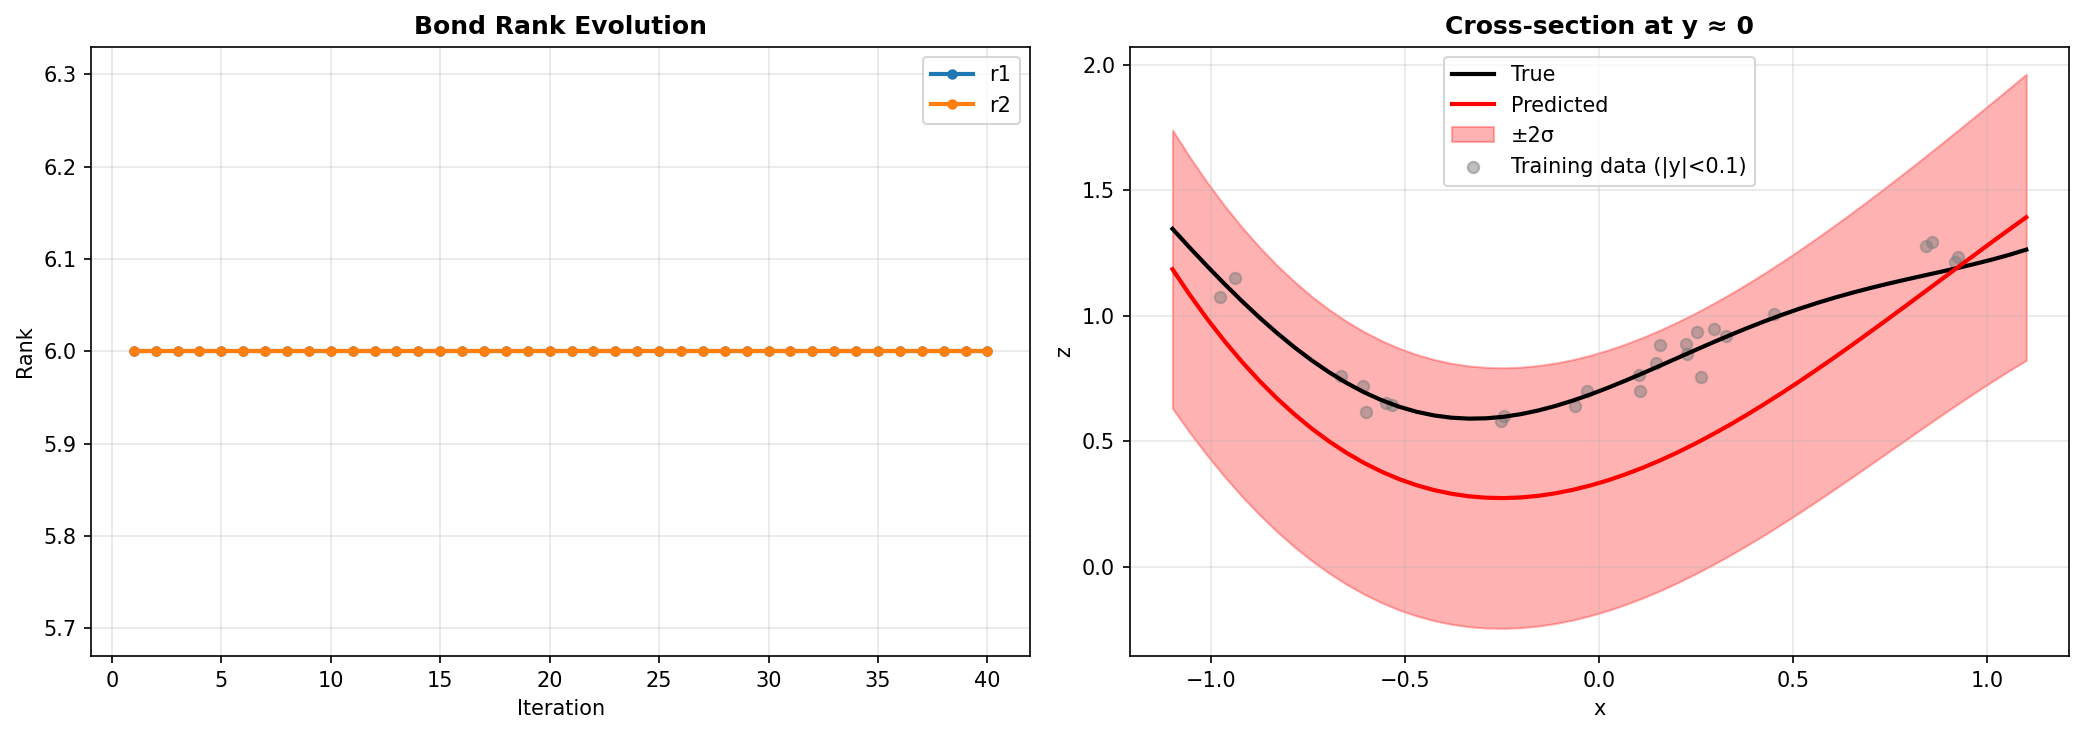
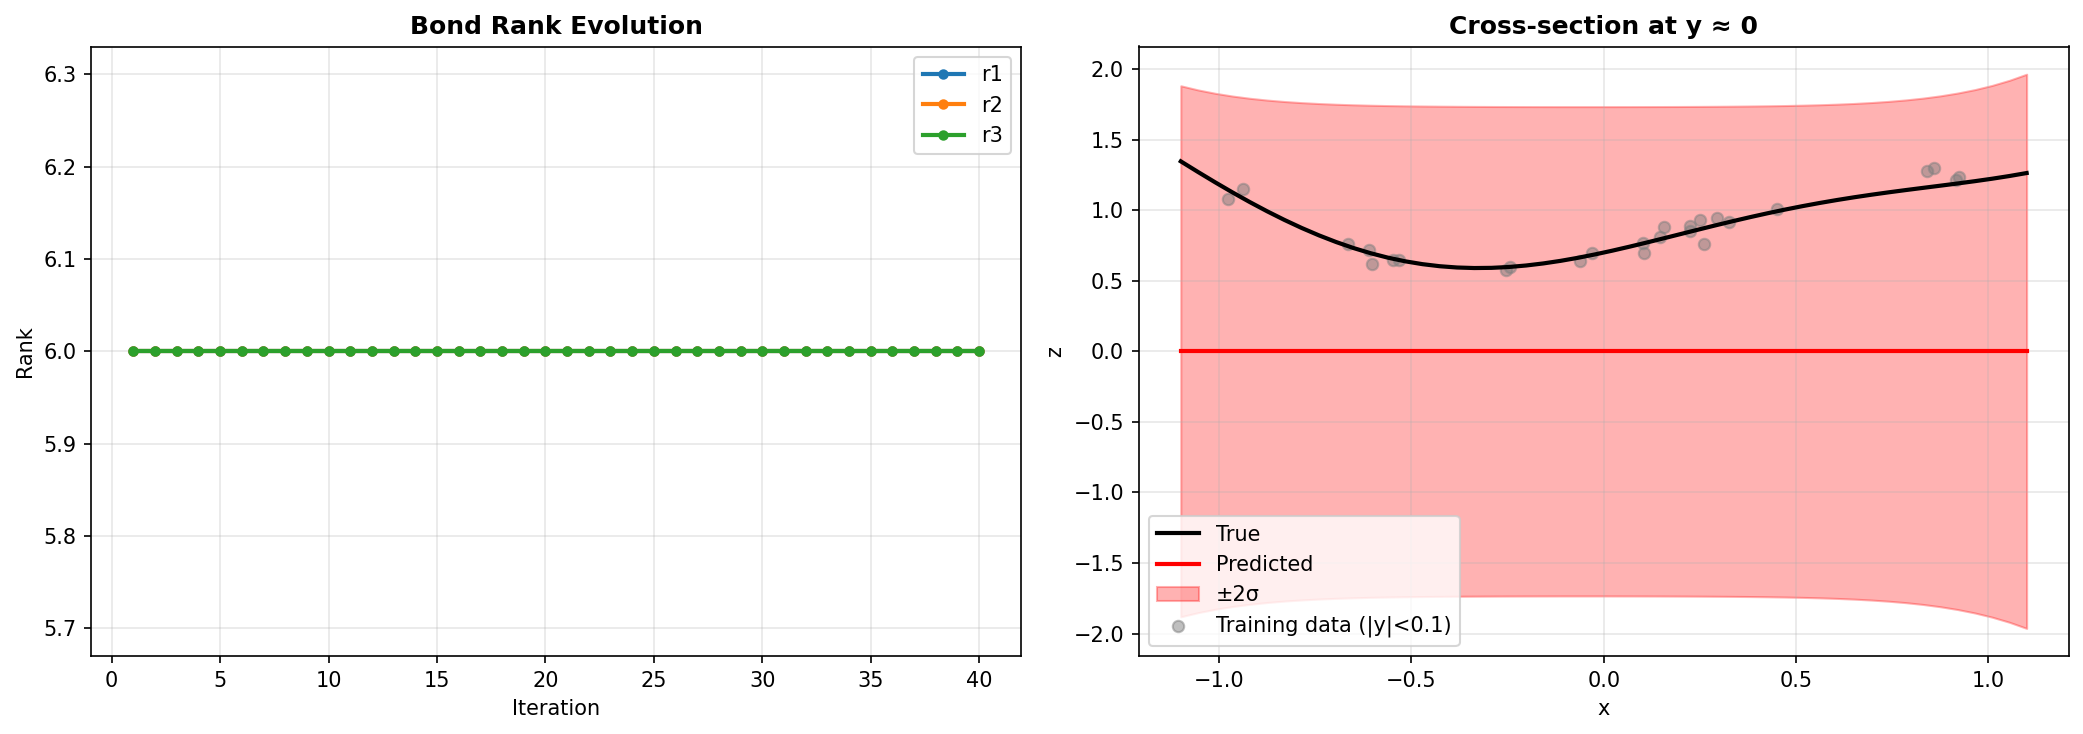
kindaWorking-NOELBO?INSTABLEFORHIGHERBLOCKS

diff --git a/tensor/bayesian_mpo.py b/tensor/bayesian_mpo.py
@@ -954,6 +954,10 @@ class BayesianMPO:
         )
 
     def compute_elbo(self, X: torch.Tensor, y: torch.Tensor) -> torch.Tensor:
+        # TODO: WARNING: Elbo diverges to - inf.
+        # We need to debug this, in such a way:
+        # -find where it explodes. (Also it should increase stadily.)
+        # -slowly go back from the return printing all the values to pinpoint exactly which part of the computation is causing the issue!
         """
         Compute the Evidence Lower Bound (ELBO).
         
@@ -991,6 +995,7 @@ class BayesianMPO:
         # Taking expectation over q: E_q[(y-f)²] = y² - 2y*E_q[f] + E_q[f²]
         # where E_q[f²] = Var[f] + E[f]² = Σ(x) + μ(x)²
         # Therefore: E_q[log p(y|θ,τ)] = -S/2 * log(2π) + S/2 * E[log τ] - E[τ]/2 * Σ[y² - 2y*μ + Σ + μ²]
+        # TODO: isnt this already computed in the rate update of tau? is it needed to be recomputed? since we compute elbo after tau ate update cant we just use that?
         y_squared = y ** 2
         y_times_mu = y * mu_pred
         mu_squared = mu_pred ** 2
@@ -1008,6 +1013,7 @@ class BayesianMPO:
         entropy_theta = torch.tensor(0.0, dtype=X.dtype, device=X.device)
         
         # Block entropies (Gaussian)
+        # TODO: isnt already a method for the class of gaussian? using the q distribution definition for the block? simply passing the mu block and sigma block? check for it and if ti works the same!
         for block_idx in range(len(self.mu_nodes)):
             sigma_matrix = self._sigma_to_matrix(block_idx)
             d = sigma_matrix.shape[0]
@@ -1016,6 +1022,7 @@ class BayesianMPO:
             entropy_theta += entropy_block
         
         # Bond entropies (Gamma)
+        # TODO: isnt implemented a product probability to do this iteration under the hood? cant it be applied to this? shouldnt that be defined at the start or is it too complicated?
         for label in self.mu_mpo.distributions.keys():
             # Get Gamma distributions for this bond
             gammas = self.mu_mpo.get_gamma_distributions(label)
@@ -1073,7 +1080,7 @@ class BayesianMPO:
                 print(f'Trim threshold: {trim_threshold}')
             print('='*70)
             print()
-        
+        # TODO: track also the r2
         mse = float('nan')
         elbo = float('nan')
         
@@ -1314,6 +1321,7 @@ class BayesianMPO:
             self._trim_sigma_node(node, sigma_keep_indices)
         
         # IMPORTANT: Update prior_bond_params to match trimmed dimensions
+        # TODO: I dont get here, the prior paramaters stay the same in value, we just remove the trimmed one, is that what you are doing?
         for label, indices in keep_indices.items():
             if label in self.prior_bond_params:
                 old_conc = self.prior_bond_params[label]['concentration0']
@@ -1380,8 +1388,7 @@ class BayesianMPO:
         
         # Flatten μ block: E_q[W_i]
         mu_flat = mu_node.tensor.flatten()
-        d = mu_flat.numel()
-        
+      
         # Convert Σ block to (d, d) matrix using label-based permutation
         # Σ-block stores the covariance (variance), not the second moment
         sigma_matrix = self._sigma_to_matrix(block_idx)
@@ -1390,6 +1397,8 @@ class BayesianMPO:
         covariance = sigma_matrix
         
         # Make symmetric to handle numerical errors (floating point precision)
+        # TODO: EXPENSIVE:
+        # This is expensive, it should naturally be symmetric is it necessary to do this? Check before and after if there is any changes
         covariance = 0.5 * (covariance + covariance.T)
         
         return MultivariateGaussianDistribution(
@@ -1590,11 +1599,11 @@ class BayesianMPO:
         if self.prior_block_sigma0_isotropic[block_idx]:
             sigma0_sq = self.prior_block_sigma0_scalar[block_idx]
             
-            # For Σ_p = σ²I:
-            # - Σ_p⁻¹ = (1/σ²)I
-            # - log|Σ_p| = d * log(σ²)
-            # - tr(Σ_p⁻¹ Σ_q) = (1/σ²) * tr(Σ_q)
-            # - (μ_q - μ_p)ᵀ Σ_p⁻¹ (μ_q - μ_p) = (1/σ²) * ||μ_q||²
+            # TODO: WARNING: this equation is wrong!
+            # 
+            # E_q[log p] = - d*0.5*log 2 \pi + 0.5 * log | \sigma_p^-1| - 0.5 * trace((\sigma_q + \mu_q \outer \mu_q)\sigma_p^-1)
+            # Implement this, and indeed keep into account that \sigma_p is isotropic, but actually it could also be different, but still diagonal.
+            # check if it is already implemented like this or equivalent
             
             trace_term = torch.trace(sigma_q) / sigma0_sq
             mahalanobis_term = torch.sum(mu_q ** 2) / sigma0_sq

diff --git a/visualize_surface.py b/visualize_surface.py
@@ -58,9 +58,9 @@ print(f"z range: [{z_train.min():.2f}, {z_train.max():.2f}]")
 print()
 
 # Create Bayesian MPO with 5 blocks, rank=6, small trimming
-print("Creating Bayesian MPO (4 blocks, rank=6, NO trimming)...")
+print("Creating Bayesian MPO (3 blocks, rank=6, NO trimming)...")
 bmpo = create_bayesian_tensor_train(
-    num_blocks=4,
+    num_blocks=3,
     bond_dim=6,
     input_features=3,  # [1, x, y]
     output_shape=1,
@@ -93,7 +93,7 @@ print()
 
 max_iter = 40
 mse_history = []
-rank_history = {f'r{i}': [] for i in range(1, 4)}
+rank_history = {f'r{i}': [] for i in range(1, 3)}
 
 for iteration in range(max_iter):
     # Update blocks
@@ -140,7 +140,7 @@ for i, node in enumerate(bmpo.mu_nodes):
 print()
 
 print("Final bond ranks:")
-for i in range(1, 3):
+for i in range(1, 4):
     label = f'r{i}'
     rank = rank_history[label][-1]
     initial_rank = rank_history[label][0]
@@ -291,7 +291,7 @@ fig2, axes = plt.subplots(1, 2, figsize=(14, 5))
 
 # Plot rank evolution
 ax_ranks = axes[0]
-for i in range(1, 3):
+for i in range(1, 4):
     label = f'r{i}'
     ax_ranks.plot(iterations, rank_history[label], marker='o', linewidth=2, 
                  markersize=4, label=label)

diff --git a/tensor/bmpo.py b/tensor/bmpo.py
@@ -290,7 +290,7 @@ class BMPONetwork(TensorNetwork):
             
             theta = torch.einsum(einsum_str, *factors)
             
-        return theta * 0.5
+        return theta
     
     def compute_entropy(self, label: str) -> Union[torch.Tensor, None]:
         """
